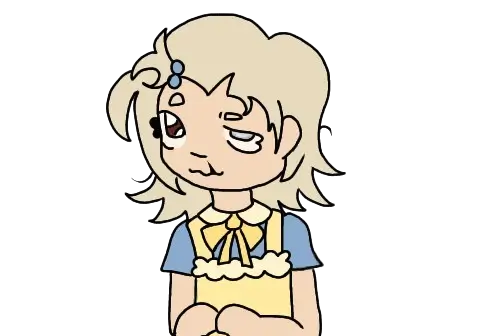
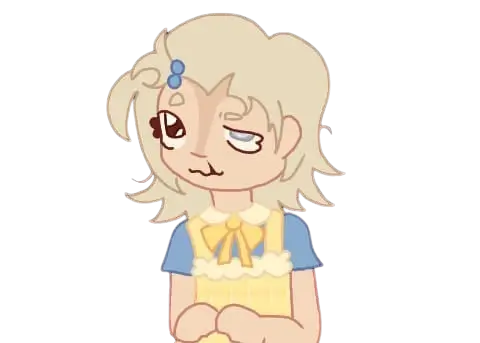
help me pls

Changed region(s): [[0.2188, 0.0298, 0.7188, 1.0], [0.625, 0.119, 0.6562, 0.1488], [0.5312, 0.9821, 0.5625, 1.0]]

diff --git a/BrandoPage/HTML/About-SBR.html b/BrandoPage/HTML/About-SBR.html
@@ -21,6 +21,20 @@
       body {
         background-image: url("../BrandoImages/BrandoContenent/Fondos/FondoSBR.webp");
       }
+
+      #Espiral {
+        display: block;
+        width: min(100%, 900px);
+        height: auto;
+        box-sizing: border-box;
+        margin: 3rem auto;
+        border: 2px solid #d6ad55;
+        border-radius: 18px;
+        background: radial-gradient(circle at center, #263750, #111a2b 72%);
+        box-shadow:
+          0 16px 40px rgba(5, 10, 22, 0.55),
+          0 0 22px rgba(214, 173, 85, 0.2);
+      }
     </style>
   </head>
   <a href="../../index.html">
@@ -159,12 +173,45 @@
       </div>
     </div>
 
+    <div class="canvas-container">
+      <button id="start-spiral" type="button" class="download-button">
+        Mostrar espiral
+      </button>
+      <canvas id="Espiral" width="900" height="500"> </canvas>
+      <p>
+        pongamonos bien frikis y hagamos una espiral aurea de a pura matematica
+        dura jeje.... SOLO POR AMOR A GYRO ZEPPELLI
+        <br />
+        ¡¡puedes encontrar el codigo en mi
+        <a href="https://github.com/SebasBrando052311/My-page">repositorio</a>
+        de esta pagina!! en BrandoPage/Others/Espiral Aurea encontraras este
+        codigo
+        <br />
+        <br />
+        ¿quieres detalles nerds y aburridos sobre esta espiral? pues los puedes
+        encontrar en mi
+        <a href="https://sebastian052311.github.io/Drawing/">
+          aburrida y mas profesional pagina</a
+        >
+        que tengo subida en mi otra cuenta de github asi como otras varias cosas
+        matematicas que haga
+      </p>
+    </div>
+
+    <script src="../Others/Espiral aurea.js"></script>
+
     <div
-      style="display: flex; justify-content: center; gap: 100px; width: 100%"
+      style="
+        display: flex;
+        justify-content: center;
+        gap: 100px;
+        width: 100%;
+        margin-top: 100px;
+      "
     >
       <img
         src="../../Gifs/dri-construction1.gif"
-        alt="Boochi crying"
+        alt="page under construction"
         style="
           width: 250px;
           height: 250px;
@@ -174,7 +221,7 @@
       />
       <img
         src="../../GeneralContent/PageUnderConstruction.webp"
-        alt="Fire orb"
+        alt="Page under construction"
         style="width: 250px; height: 250px; object-fit: contain"
       />
     </div>

diff --git a/BrandoPage/Others/Espiral aurea.js b/BrandoPage/Others/Espiral aurea.js
@@ -1,0 +1,58 @@
+const canvas = document.querySelector("#Espiral");
+const ctx = canvas.getContext("2d");
+const button = document.querySelector("#start-spiral");
+
+ctx.lineWidth = 5;
+ctx.strokeStyle = "#eff30c";
+
+const aurea = (1 + Math.sqrt(5)) / 2;
+const totalSteps = 751;
+const duration = 2000;
+let isDrawn = false;
+
+// Anima la espiral durante dos segundos después de presionar el botón.
+button.addEventListener("click", () => {
+  if (isDrawn) {
+    ctx.clearRect(0, 0, canvas.width, canvas.height);
+    button.textContent = "Mostrar espiral";
+    isDrawn = false;
+    return;
+  }
+
+  button.disabled = true;
+  button.textContent = "Dibujando...";
+  ctx.beginPath();
+  ctx.moveTo(600, 350);
+
+  let drawnSteps = 0;
+  let startTime;
+
+  function draw(timestamp) {
+    if (startTime === undefined) startTime = timestamp;
+    const progress = Math.min((timestamp - startTime) / duration, 1);
+    const targetStep = Math.floor(progress * totalSteps);
+
+    while (drawnSteps < targetStep) {
+      const i = drawnSteps / 10;
+      const radio = Math.pow(aurea, (i * 2) / Math.PI) * 2.6;
+
+      ctx.lineTo(
+        600 + radio * Math.cos(i - Math.PI / 2),
+        350 - radio * Math.sin(i - Math.PI / 2),
+      );
+      drawnSteps++;
+    }
+
+    ctx.stroke();
+
+    if (progress < 1) {
+      requestAnimationFrame(draw);
+    } else {
+      button.textContent = "Borrar";
+      button.disabled = false;
+      isDrawn = true;
+    }
+  }
+
+  requestAnimationFrame(draw);
+});

diff --git a/BrandoPage/Others/Estrellitas.js b/BrandoPage/Others/Estrellitas.js
@@ -1,0 +1,60 @@
+const canvas = document.querySelector("#Espiral");
+const ctx = canvas.getContext("2d");
+
+ctx.lineWidth = 0.15;
+ctx.strokeStyle = "red";
+ctx.beginPath();
+ctx.moveTo(0, 0);
+
+S = 200;
+
+for (let i = 0; i <= S; i++) {
+  ctx.lineTo(i * (900 / S), 450);
+  ctx.moveTo(0, (i + 1) * (450 / S));
+}
+
+ctx.moveTo(900, 0);
+
+for (let i = 0; i <= S; i++) {
+  ctx.lineTo(900, i * (450 / S));
+  ctx.moveTo((i + 1) * (900 / S), 0);
+}
+
+ctx.moveTo(0, 0);
+
+for (let i = 0; i <= S; i++) {
+  ctx.lineTo(0, 450 - i * (450 / S));
+  ctx.moveTo((i + 1) * (900 / S), 0);
+}
+
+for (let i = 0; i <= S; i++) {
+  ctx.lineTo( 900 - i * (900 / S), 450);
+  ctx.moveTo(900,(i + 1) * (450 / S) );
+}
+
+// for (let i = 0; i <= S; i++) {
+//   ctx.lineTo(i * (900 / S), 900);
+//   ctx.moveTo(0, (i + 1) * (900 / S));
+// }
+
+// ctx.moveTo(900, 0);
+
+// for (let i = 0; i <= S; i++) {
+//   ctx.lineTo(900, i * (900 / S));
+//   ctx.moveTo((i + 1) * (900 / S), 0);
+// }
+
+// ctx.moveTo(0, 0);
+
+// for (let i = 0; i <= S; i++) {
+//   ctx.lineTo(0, 900 - i * (900 / S));
+//   ctx.moveTo((i + 1) * (900 / S), 0);
+// }
+
+// for (let i = 0; i <= S; i++) {
+//   ctx.lineTo( 900 - i * (900 / S), 900);
+//   ctx.moveTo(900,(i + 1) * (900 / S) );
+// }
+
+
+ctx.stroke();
